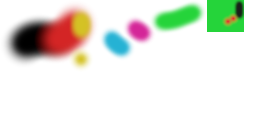
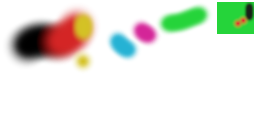
m

Changed region(s): [[0.0625, 0.0, 1.0, 0.5625], [0.0312, 0.0625, 0.3438, 0.4062]]

diff --git a/src/main/java/com/heavybox/jtix/Main.java b/src/main/java/com/heavybox/jtix/Main.java
@@ -2,6 +2,7 @@ package com.heavybox.jtix;
 
 import com.heavybox.jtix.application.Application;
 import com.heavybox.jtix.application.ApplicationWindowAttributes;
+import com.heavybox.jtix.graphics.TextureGenerator;
 import com.heavybox.jtix.graphics.TexturePacker;
 
 import java.io.IOException;
@@ -18,19 +19,13 @@ public class Main {
 //        }
 
 
-//        try {
-//            TexturePacker.Options options = new TexturePacker.Options("assets/atlases", "marks",
-//                    null, null, null, null,
-//                    0,0, TexturePacker.Options.Size.MEDIUM_1024);
-//            //TexturePacker.packTextures(options, "assets/textures/pinkSpot.png", "assets/textures/yellowSquare.png", "assets/textures/yellowSquare2.png");
-//            //TexturePacker.packTextures(options, "assets/textures/physicsCircle.png", "assets/textures/physicsSquare.png");
-//            TexturePacker.packTextures(options, "assets/textures/mark-1.png", "assets/textures/mark-2.png", "assets/textures/mark-3.png");
-//
-//        } catch (Exception e) {
-//            e.printStackTrace();
-//        }
+        try {
+            TextureGenerator.generateTexturePack("assets/atlases", "marks", 2,0, TextureGenerator.TexturePackSize.SMALL_512,"assets/textures/mark-1.png", "assets/textures/mark-2.png", "assets/textures/mark-3.png");
+        } catch (Exception e) {
+            return;
+        }
 
-        //if (true) return;
+        if (true) return;
 
         ApplicationWindowAttributes config = new ApplicationWindowAttributes();
         Application.createSingleWindowApplication(config);

diff --git a/src/main/java/com/heavybox/jtix/graphics/TextureBuilder.java b/src/main/java/com/heavybox/jtix/graphics/TextureBuilder.java
@@ -60,7 +60,7 @@ public final class TextureBuilder {
         return createTexture(data, null, null, null, null);
     }
 
-    public static Data getTextureDataFromFilePath(final String path) {
+    private static Data getTextureDataFromFilePath(final String path) {
         try (MemoryStack stack = MemoryStack.stackPush()) {
             IntBuffer widthBuffer = stack.mallocInt(1);
             IntBuffer heightBuffer = stack.mallocInt(1);
@@ -77,7 +77,7 @@ public final class TextureBuilder {
         }
     }
 
-    public static Texture createTexture(Data data, Texture.Filter magFilter, Texture.Filter minFilter, Texture.Wrap uWrap, Texture.Wrap vWrap) {
+    private static Texture createTexture(Data data, Texture.Filter magFilter, Texture.Filter minFilter, Texture.Wrap uWrap, Texture.Wrap vWrap) {
         if (magFilter == null) magFilter = Texture.Filter.MIP_MAP_NEAREST_NEAREST;
         if (minFilter == null) minFilter = Texture.Filter.MIP_MAP_NEAREST_NEAREST;
         if (uWrap == null) uWrap = Texture.Wrap.CLAMP_TO_EDGE;
@@ -111,6 +111,7 @@ public final class TextureBuilder {
             this.height = height;
             this.buffer = buffer;
         }
+
     }
 
 }

diff --git a/src/main/java/com/heavybox/jtix/graphics/Texture.java b/src/main/java/com/heavybox/jtix/graphics/Texture.java
@@ -40,7 +40,7 @@ public class Texture implements MemoryResource {
     }
 
     protected final void setSlot(final int slot) { this.slot = slot; }
-    protected final int getSlot() { return slot; }
+    protected final int  getSlot() { return slot; }
 
     private void setBytes() {
         if (bytes != null) return;
